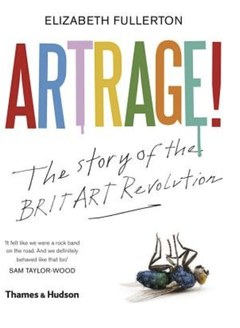
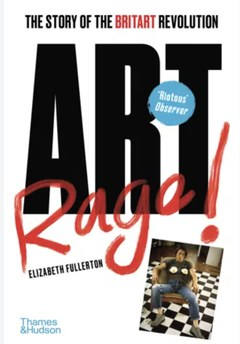
Reading List: use the newer Art Rage! cover and title

diff --git a/reading.html b/reading.html
@@ -10,11 +10,11 @@
   <link rel="preconnect" href="https://fonts.gstatic.com" crossorigin>
   <link href="https://fonts.googleapis.com/css2?family=Asset&family=Cormorant+Garamond:ital,wght@0,400;0,500;0,600;0,700;1,400;1,500;1,600&family=EB+Garamond:ital,wght@0,400;0,500;0,600;1,400;1,500&family=Inter:wght@400;500;600;800&display=swap" rel="stylesheet">
 
-  <link rel="stylesheet" href="css/tokens.css?v=20261023e">
-  <link rel="stylesheet" href="css/base.css?v=20261023e">
-  <link rel="stylesheet" href="css/components.css?v=20261023e">
-  <link rel="stylesheet" href="css/pages.css?v=20261023e">
-  <script src="js/site.js?v=20261023e" defer></script>
+  <link rel="stylesheet" href="css/tokens.css?v=20261024a">
+  <link rel="stylesheet" href="css/base.css?v=20261024a">
+  <link rel="stylesheet" href="css/components.css?v=20261024a">
+  <link rel="stylesheet" href="css/pages.css?v=20261024a">
+  <script src="js/site.js?v=20261024a" defer></script>
   <!-- Visitor statistics (GoatCounter: privacy-friendly, no cookies). Dashboard: https://madelineheller.goatcounter.com -->
   <script data-goatcounter="https://madelineheller.goatcounter.com/count" async src="https://gc.zgo.at/count.js"></script>
 </head>
@@ -83,9 +83,9 @@
           </div>
           </li>
           <li class="readlist__item">
-            <img class="readlist__cover" src="assets/images/books/artrage.jpg" width="240" height="328" loading="lazy" decoding="async" alt="Cover of Artrage! The story of the BritArt Revolution by Elizabeth Fullerton">
+            <img class="readlist__cover" src="assets/images/books/artrage.jpg" width="240" height="344" loading="lazy" decoding="async" alt="Cover of Art Rage! The Story of the BritArt Revolution by Elizabeth Fullerton">
             <div class="readlist__body">
-            <h3 class="readlist__title">Artrage!: The Story of the BritArt Revolution</h3>
+            <h3 class="readlist__title">Art Rage!: The Story of the BritArt Revolution</h3>
             <p class="readlist__author">Elizabeth Fullerton</p>
             <p class="readlist__text">The story of the BritArt revolution of the 1990s and the artists who made it.</p>
             <a class="btn btn--outline readlist__btn" href="https://bookshop.org/a/130128/9780500296332" target="_blank" rel="noopener sponsored">Buy on Bookshop.org</a>

diff --git a/acquisitions.html b/acquisitions.html
@@ -10,13 +10,13 @@
   <link rel="preconnect" href="https://fonts.gstatic.com" crossorigin>
   <link href="https://fonts.googleapis.com/css2?family=Asset&family=Cormorant+Garamond:ital,wght@0,400;0,500;0,600;0,700;1,400;1,500;1,600&family=EB+Garamond:ital,wght@0,400;0,500;0,600;1,400;1,500&family=Inter:wght@400;500;600;800&display=swap" rel="stylesheet">
 
-  <link rel="stylesheet" href="css/tokens.css?v=20261023e">
-  <link rel="stylesheet" href="css/base.css?v=20261023e">
-  <link rel="stylesheet" href="css/components.css?v=20261023e">
-  <link rel="stylesheet" href="css/pages.css?v=20261023e">
-  <script src="js/site.js?v=20261023e" defer></script>
-  <script src="js/contact.js?v=20261023e" defer></script>
-  <script src="js/gallery.js?v=20261023e" defer></script>
+  <link rel="stylesheet" href="css/tokens.css?v=20261024a">
+  <link rel="stylesheet" href="css/base.css?v=20261024a">
+  <link rel="stylesheet" href="css/components.css?v=20261024a">
+  <link rel="stylesheet" href="css/pages.css?v=20261024a">
+  <script src="js/site.js?v=20261024a" defer></script>
+  <script src="js/contact.js?v=20261024a" defer></script>
+  <script src="js/gallery.js?v=20261024a" defer></script>
   <!-- Visitor statistics (GoatCounter: privacy-friendly, no cookies). Dashboard: https://madelineheller.goatcounter.com -->
   <script data-goatcounter="https://madelineheller.goatcounter.com/count" async src="https://gc.zgo.at/count.js"></script>
 </head>

diff --git a/work-after-van-dyck-james-stuart.html b/work-after-van-dyck-james-stuart.html
@@ -10,13 +10,13 @@
   <link rel="preconnect" href="https://fonts.gstatic.com" crossorigin>
   <link href="https://fonts.googleapis.com/css2?family=Asset&family=Cormorant+Garamond:ital,wght@0,400;0,500;0,600;0,700;1,400;1,500;1,600&family=EB+Garamond:ital,wght@0,400;0,500;0,600;1,400;1,500&family=Inter:wght@400;500;600;800&display=swap" rel="stylesheet">
 
-  <link rel="stylesheet" href="css/tokens.css?v=20261023e">
-  <link rel="stylesheet" href="css/base.css?v=20261023e">
-  <link rel="stylesheet" href="css/components.css?v=20261023e">
-  <link rel="stylesheet" href="css/pages.css?v=20261023e">
-  <script src="js/site.js?v=20261023e" defer></script>
-  <script src="js/contact.js?v=20261023e" defer></script>
-  <script src="js/gallery.js?v=20261023e" defer></script>
+  <link rel="stylesheet" href="css/tokens.css?v=20261024a">
+  <link rel="stylesheet" href="css/base.css?v=20261024a">
+  <link rel="stylesheet" href="css/components.css?v=20261024a">
+  <link rel="stylesheet" href="css/pages.css?v=20261024a">
+  <script src="js/site.js?v=20261024a" defer></script>
+  <script src="js/contact.js?v=20261024a" defer></script>
+  <script src="js/gallery.js?v=20261024a" defer></script>
   <!-- Visitor statistics (GoatCounter: privacy-friendly, no cookies). Dashboard: https://madelineheller.goatcounter.com -->
   <script data-goatcounter="https://madelineheller.goatcounter.com/count" async src="https://gc.zgo.at/count.js"></script>
 </head>

diff --git a/work-brodowski-september-63.html b/work-brodowski-september-63.html
@@ -10,13 +10,13 @@
   <link rel="preconnect" href="https://fonts.gstatic.com" crossorigin>
   <link href="https://fonts.googleapis.com/css2?family=Asset&family=Cormorant+Garamond:ital,wght@0,400;0,500;0,600;0,700;1,400;1,500;1,600&family=EB+Garamond:ital,wght@0,400;0,500;0,600;1,400;1,500&family=Inter:wght@400;500;600;800&display=swap" rel="stylesheet">
 
-  <link rel="stylesheet" href="css/tokens.css?v=20261023e">
-  <link rel="stylesheet" href="css/base.css?v=20261023e">
-  <link rel="stylesheet" href="css/components.css?v=20261023e">
-  <link rel="stylesheet" href="css/pages.css?v=20261023e">
-  <script src="js/site.js?v=20261023e" defer></script>
-  <script src="js/contact.js?v=20261023e" defer></script>
-  <script src="js/gallery.js?v=20261023e" defer></script>
+  <link rel="stylesheet" href="css/tokens.css?v=20261024a">
+  <link rel="stylesheet" href="css/base.css?v=20261024a">
+  <link rel="stylesheet" href="css/components.css?v=20261024a">
+  <link rel="stylesheet" href="css/pages.css?v=20261024a">
+  <script src="js/site.js?v=20261024a" defer></script>
+  <script src="js/contact.js?v=20261024a" defer></script>
+  <script src="js/gallery.js?v=20261024a" defer></script>
   <!-- Visitor statistics (GoatCounter: privacy-friendly, no cookies). Dashboard: https://madelineheller.goatcounter.com -->
   <script data-goatcounter="https://madelineheller.goatcounter.com/count" async src="https://gc.zgo.at/count.js"></script>
 </head>

diff --git a/work-color-lithograph-bird-figure.html b/work-color-lithograph-bird-figure.html
@@ -10,13 +10,13 @@
   <link rel="preconnect" href="https://fonts.gstatic.com" crossorigin>
   <link href="https://fonts.googleapis.com/css2?family=Asset&family=Cormorant+Garamond:ital,wght@0,400;0,500;0,600;0,700;1,400;1,500;1,600&family=EB+Garamond:ital,wght@0,400;0,500;0,600;1,400;1,500&family=Inter:wght@400;500;600;800&display=swap" rel="stylesheet">
 
-  <link rel="stylesheet" href="css/tokens.css?v=20261023e">
-  <link rel="stylesheet" href="css/base.css?v=20261023e">
-  <link rel="stylesheet" href="css/components.css?v=20261023e">
-  <link rel="stylesheet" href="css/pages.css?v=20261023e">
-  <script src="js/site.js?v=20261023e" defer></script>
-  <script src="js/contact.js?v=20261023e" defer></script>
-  <script src="js/gallery.js?v=20261023e" defer></script>
+  <link rel="stylesheet" href="css/tokens.css?v=20261024a">
+  <link rel="stylesheet" href="css/base.css?v=20261024a">
+  <link rel="stylesheet" href="css/components.css?v=20261024a">
+  <link rel="stylesheet" href="css/pages.css?v=20261024a">
+  <script src="js/site.js?v=20261024a" defer></script>
+  <script src="js/contact.js?v=20261024a" defer></script>
+  <script src="js/gallery.js?v=20261024a" defer></script>
   <!-- Visitor statistics (GoatCounter: privacy-friendly, no cookies). Dashboard: https://madelineheller.goatcounter.com -->
   <script data-goatcounter="https://madelineheller.goatcounter.com/count" async src="https://gc.zgo.at/count.js"></script>
 </head>

diff --git a/work-con-fe-y-esperanza.html b/work-con-fe-y-esperanza.html
@@ -10,13 +10,13 @@
   <link rel="preconnect" href="https://fonts.gstatic.com" crossorigin>
   <link href="https://fonts.googleapis.com/css2?family=Asset&family=Cormorant+Garamond:ital,wght@0,400;0,500;0,600;0,700;1,400;1,500;1,600&family=EB+Garamond:ital,wght@0,400;0,500;0,600;1,400;1,500&family=Inter:wght@400;500;600;800&display=swap" rel="stylesheet">
 
-  <link rel="stylesheet" href="css/tokens.css?v=20261023e">
-  <link rel="stylesheet" href="css/base.css?v=20261023e">
-  <link rel="stylesheet" href="css/components.css?v=20261023e">
-  <link rel="stylesheet" href="css/pages.css?v=20261023e">
-  <script src="js/site.js?v=20261023e" defer></script>
-  <script src="js/contact.js?v=20261023e" defer></script>
-  <script src="js/gallery.js?v=20261023e" defer></script>
+  <link rel="stylesheet" href="css/tokens.css?v=20261024a">
+  <link rel="stylesheet" href="css/base.css?v=20261024a">
+  <link rel="stylesheet" href="css/components.css?v=20261024a">
+  <link rel="stylesheet" href="css/pages.css?v=20261024a">
+  <script src="js/site.js?v=20261024a" defer></script>
+  <script src="js/contact.js?v=20261024a" defer></script>
+  <script src="js/gallery.js?v=20261024a" defer></script>
   <!-- Visitor statistics (GoatCounter: privacy-friendly, no cookies). Dashboard: https://madelineheller.goatcounter.com -->
   <script data-goatcounter="https://madelineheller.goatcounter.com/count" async src="https://gc.zgo.at/count.js"></script>
 </head>

diff --git a/work-estate-of-ron-asche-ladders.html b/work-estate-of-ron-asche-ladders.html
@@ -10,13 +10,13 @@
   <link rel="preconnect" href="https://fonts.gstatic.com" crossorigin>
   <link href="https://fonts.googleapis.com/css2?family=Asset&family=Cormorant+Garamond:ital,wght@0,400;0,500;0,600;0,700;1,400;1,500;1,600&family=EB+Garamond:ital,wght@0,400;0,500;0,600;1,400;1,500&family=Inter:wght@400;500;600;800&display=swap" rel="stylesheet">
 
-  <link rel="stylesheet" href="css/tokens.css?v=20261023e">
-  <link rel="stylesheet" href="css/base.css?v=20261023e">
-  <link rel="stylesheet" href="css/components.css?v=20261023e">
-  <link rel="stylesheet" href="css/pages.css?v=20261023e">
-  <script src="js/site.js?v=20261023e" defer></script>
-  <script src="js/contact.js?v=20261023e" defer></script>
-  <script src="js/gallery.js?v=20261023e" defer></script>
+  <link rel="stylesheet" href="css/tokens.css?v=20261024a">
+  <link rel="stylesheet" href="css/base.css?v=20261024a">
+  <link rel="stylesheet" href="css/components.css?v=20261024a">
+  <link rel="stylesheet" href="css/pages.css?v=20261024a">
+  <script src="js/site.js?v=20261024a" defer></script>
+  <script src="js/contact.js?v=20261024a" defer></script>
+  <script src="js/gallery.js?v=20261024a" defer></script>
   <!-- Visitor statistics (GoatCounter: privacy-friendly, no cookies). Dashboard: https://madelineheller.goatcounter.com -->
   <script data-goatcounter="https://madelineheller.goatcounter.com/count" async src="https://gc.zgo.at/count.js"></script>
 </head>

diff --git a/work-harry-newman-the-stream.html b/work-harry-newman-the-stream.html
@@ -10,13 +10,13 @@
   <link rel="preconnect" href="https://fonts.gstatic.com" crossorigin>
   <link href="https://fonts.googleapis.com/css2?family=Asset&family=Cormorant+Garamond:ital,wght@0,400;0,500;0,600;0,700;1,400;1,500;1,600&family=EB+Garamond:ital,wght@0,400;0,500;0,600;1,400;1,500&family=Inter:wght@400;500;600;800&display=swap" rel="stylesheet">
 
-  <link rel="stylesheet" href="css/tokens.css?v=20261023e">
-  <link rel="stylesheet" href="css/base.css?v=20261023e">
-  <link rel="stylesheet" href="css/components.css?v=20261023e">
-  <link rel="stylesheet" href="css/pages.css?v=20261023e">
-  <script src="js/site.js?v=20261023e" defer></script>
-  <script src="js/contact.js?v=20261023e" defer></script>
-  <script src="js/gallery.js?v=20261023e" defer></script>
+  <link rel="stylesheet" href="css/tokens.css?v=20261024a">
+  <link rel="stylesheet" href="css/base.css?v=20261024a">
+  <link rel="stylesheet" href="css/components.css?v=20261024a">
+  <link rel="stylesheet" href="css/pages.css?v=20261024a">
+  <script src="js/site.js?v=20261024a" defer></script>
+  <script src="js/contact.js?v=20261024a" defer></script>
+  <script src="js/gallery.js?v=20261024a" defer></script>
   <!-- Visitor statistics (GoatCounter: privacy-friendly, no cookies). Dashboard: https://madelineheller.goatcounter.com -->
   <script data-goatcounter="https://madelineheller.goatcounter.com/count" async src="https://gc.zgo.at/count.js"></script>
 </head>

diff --git a/work-jaques-wool-grass.html b/work-jaques-wool-grass.html
@@ -10,13 +10,13 @@
   <link rel="preconnect" href="https://fonts.gstatic.com" crossorigin>
   <link href="https://fonts.googleapis.com/css2?family=Asset&family=Cormorant+Garamond:ital,wght@0,400;0,500;0,600;0,700;1,400;1,500;1,600&family=EB+Garamond:ital,wght@0,400;0,500;0,600;1,400;1,500&family=Inter:wght@400;500;600;800&display=swap" rel="stylesheet">
 
-  <link rel="stylesheet" href="css/tokens.css?v=20261023e">
-  <link rel="stylesheet" href="css/base.css?v=20261023e">
-  <link rel="stylesheet" href="css/components.css?v=20261023e">
-  <link rel="stylesheet" href="css/pages.css?v=20261023e">
-  <script src="js/site.js?v=20261023e" defer></script>
-  <script src="js/contact.js?v=20261023e" defer></script>
-  <script src="js/gallery.js?v=20261023e" defer></script>
+  <link rel="stylesheet" href="css/tokens.css?v=20261024a">
+  <link rel="stylesheet" href="css/base.css?v=20261024a">
+  <link rel="stylesheet" href="css/components.css?v=20261024a">
+  <link rel="stylesheet" href="css/pages.css?v=20261024a">
+  <script src="js/site.js?v=20261024a" defer></script>
+  <script src="js/contact.js?v=20261024a" defer></script>
+  <script src="js/gallery.js?v=20261024a" defer></script>
   <!-- Visitor statistics (GoatCounter: privacy-friendly, no cookies). Dashboard: https://madelineheller.goatcounter.com -->
   <script data-goatcounter="https://madelineheller.goatcounter.com/count" async src="https://gc.zgo.at/count.js"></script>
 </head>

diff --git a/work-kawano-kaoru-yellow-canary.html b/work-kawano-kaoru-yellow-canary.html
@@ -10,13 +10,13 @@
   <link rel="preconnect" href="https://fonts.gstatic.com" crossorigin>
   <link href="https://fonts.googleapis.com/css2?family=Asset&family=Cormorant+Garamond:ital,wght@0,400;0,500;0,600;0,700;1,400;1,500;1,600&family=EB+Garamond:ital,wght@0,400;0,500;0,600;1,400;1,500&family=Inter:wght@400;500;600;800&display=swap" rel="stylesheet">
 
-  <link rel="stylesheet" href="css/tokens.css?v=20261023e">
-  <link rel="stylesheet" href="css/base.css?v=20261023e">
-  <link rel="stylesheet" href="css/components.css?v=20261023e">
-  <link rel="stylesheet" href="css/pages.css?v=20261023e">
-  <script src="js/site.js?v=20261023e" defer></script>
-  <script src="js/contact.js?v=20261023e" defer></script>
-  <script src="js/gallery.js?v=20261023e" defer></script>
+  <link rel="stylesheet" href="css/tokens.css?v=20261024a">
+  <link rel="stylesheet" href="css/base.css?v=20261024a">
+  <link rel="stylesheet" href="css/components.css?v=20261024a">
+  <link rel="stylesheet" href="css/pages.css?v=20261024a">
+  <script src="js/site.js?v=20261024a" defer></script>
+  <script src="js/contact.js?v=20261024a" defer></script>
+  <script src="js/gallery.js?v=20261024a" defer></script>
   <!-- Visitor statistics (GoatCounter: privacy-friendly, no cookies). Dashboard: https://madelineheller.goatcounter.com -->
   <script data-goatcounter="https://madelineheller.goatcounter.com/count" async src="https://gc.zgo.at/count.js"></script>
 </head>

diff --git a/work-ken-orton-attention.html b/work-ken-orton-attention.html
@@ -10,13 +10,13 @@
   <link rel="preconnect" href="https://fonts.gstatic.com" crossorigin>
   <link href="https://fonts.googleapis.com/css2?family=Asset&family=Cormorant+Garamond:ital,wght@0,400;0,500;0,600;0,700;1,400;1,500;1,600&family=EB+Garamond:ital,wght@0,400;0,500;0,600;1,400;1,500&family=Inter:wght@400;500;600;800&display=swap" rel="stylesheet">
 
-  <link rel="stylesheet" href="css/tokens.css?v=20261023e">
-  <link rel="stylesheet" href="css/base.css?v=20261023e">
-  <link rel="stylesheet" href="css/components.css?v=20261023e">
-  <link rel="stylesheet" href="css/pages.css?v=20261023e">
-  <script src="js/site.js?v=20261023e" defer></script>
-  <script src="js/contact.js?v=20261023e" defer></script>
-  <script src="js/gallery.js?v=20261023e" defer></script>
+  <link rel="stylesheet" href="css/tokens.css?v=20261024a">
+  <link rel="stylesheet" href="css/base.css?v=20261024a">
+  <link rel="stylesheet" href="css/components.css?v=20261024a">
+  <link rel="stylesheet" href="css/pages.css?v=20261024a">
+  <script src="js/site.js?v=20261024a" defer></script>
+  <script src="js/contact.js?v=20261024a" defer></script>
+  <script src="js/gallery.js?v=20261024a" defer></script>
   <!-- Visitor statistics (GoatCounter: privacy-friendly, no cookies). Dashboard: https://madelineheller.goatcounter.com -->
   <script data-goatcounter="https://madelineheller.goatcounter.com/count" async src="https://gc.zgo.at/count.js"></script>
 </head>

diff --git a/work-leheutre-harbor-sagot.html b/work-leheutre-harbor-sagot.html
@@ -10,13 +10,13 @@
   <link rel="preconnect" href="https://fonts.gstatic.com" crossorigin>
   <link href="https://fonts.googleapis.com/css2?family=Asset&family=Cormorant+Garamond:ital,wght@0,400;0,500;0,600;0,700;1,400;1,500;1,600&family=EB+Garamond:ital,wght@0,400;0,500;0,600;1,400;1,500&family=Inter:wght@400;500;600;800&display=swap" rel="stylesheet">
 
-  <link rel="stylesheet" href="css/tokens.css?v=20261023e">
-  <link rel="stylesheet" href="css/base.css?v=20261023e">
-  <link rel="stylesheet" href="css/components.css?v=20261023e">
-  <link rel="stylesheet" href="css/pages.css?v=20261023e">
-  <script src="js/site.js?v=20261023e" defer></script>
-  <script src="js/contact.js?v=20261023e" defer></script>
-  <script src="js/gallery.js?v=20261023e" defer></script>
+  <link rel="stylesheet" href="css/tokens.css?v=20261024a">
+  <link rel="stylesheet" href="css/base.css?v=20261024a">
+  <link rel="stylesheet" href="css/components.css?v=20261024a">
+  <link rel="stylesheet" href="css/pages.css?v=20261024a">
+  <script src="js/site.js?v=20261024a" defer></script>
+  <script src="js/contact.js?v=20261024a" defer></script>
+  <script src="js/gallery.js?v=20261024a" defer></script>
   <!-- Visitor statistics (GoatCounter: privacy-friendly, no cookies). Dashboard: https://madelineheller.goatcounter.com -->
   <script data-goatcounter="https://madelineheller.goatcounter.com/count" async src="https://gc.zgo.at/count.js"></script>
 </head>
